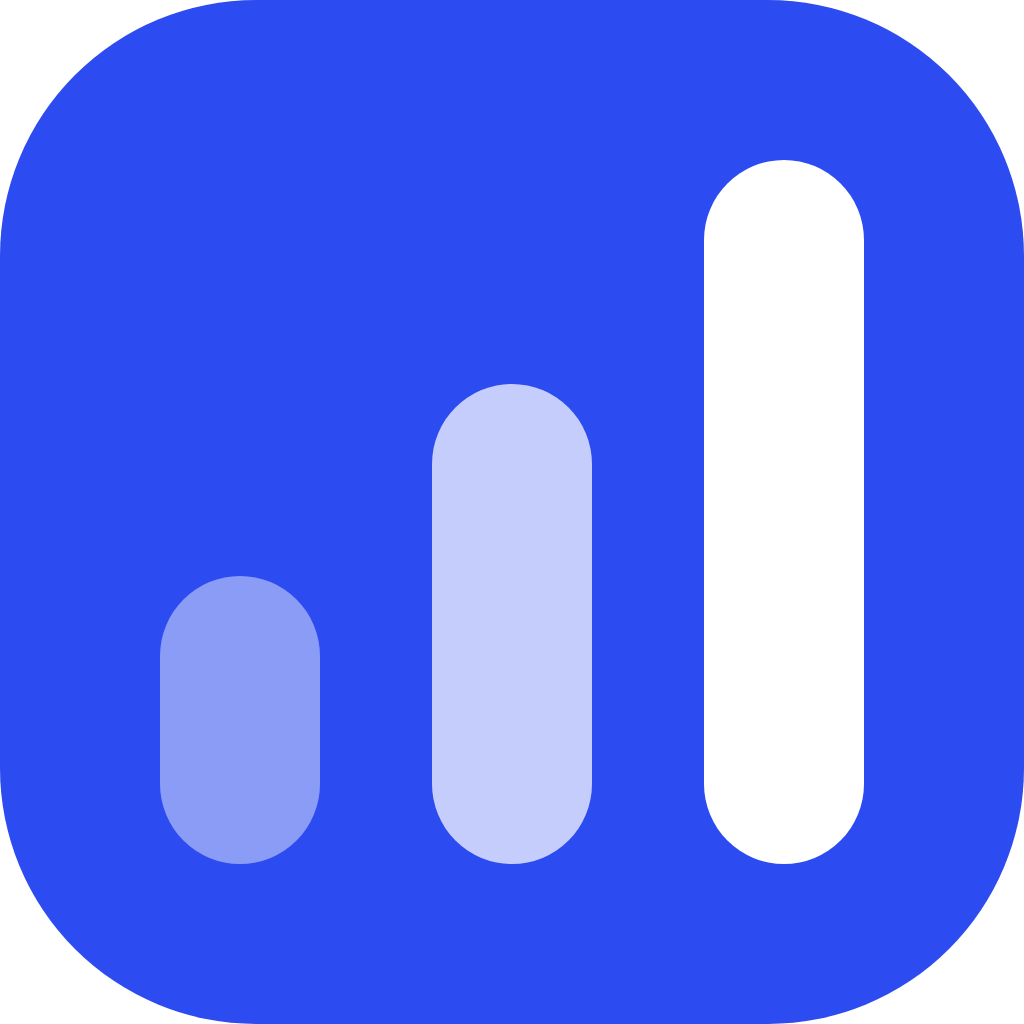
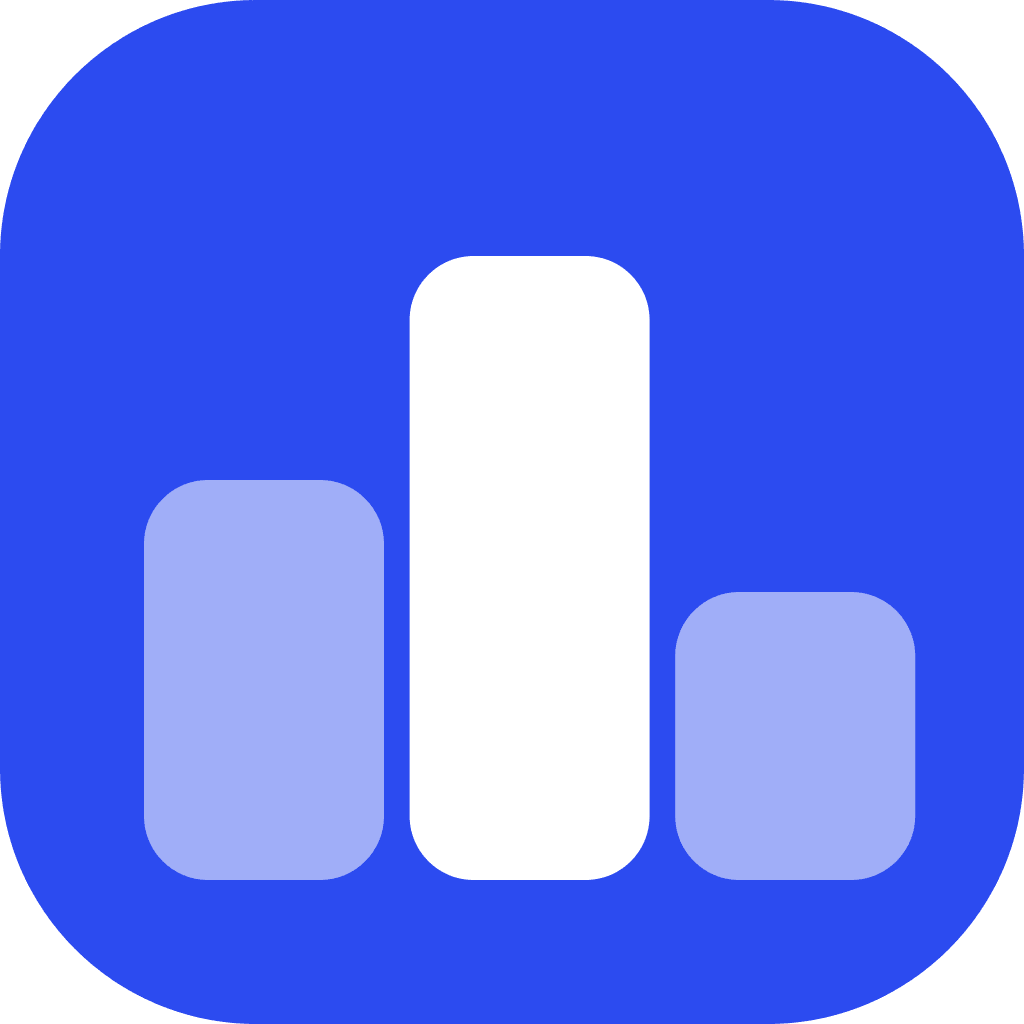
Swap the mark to a podium, generated from one geometry
The old mark was a bar chart, which is the most-used silhouette in
software and says analytics rather than ranking. Worse, the opacity ramp
cost it two of its three bars at favicon size: at 16px it read as a single
white stick, which is where most people meet a mark first.

A podium puts the tallest block in the middle. That is what a podium is
and what a chart never is, the asymmetry is what keeps it identifiable
small, and being centre-weighted it fills a circular avatar instead of
leaving a wedge of empty tile in one corner.

The geometry now lives in one module and every asset is generated from it
by scripts/generate-brand.mjs - favicon, touch icon, social avatars,
wordmark, the bare mark and the rank badge. Last time these drifted apart
by hand; now they cannot.

The wordmark became two files. It used currentColor, which is right inline
and wrong as a file: inside an <img> currentColor resolves to black, so
the dark-background version was invisible.

diff --git a/src/lib/brand.ts b/src/lib/brand.ts
@@ -1,0 +1,71 @@
+/**
+ * The mark, in one place.
+ *
+ * A podium: three blocks with the tallest in the middle, which is what a podium is and
+ * what a bar chart never is. Ascending bars read as analytics, and the two faded ones
+ * disappeared at favicon size - the shape is asymmetric now so it stays identifiable at
+ * 16px, and centre-weighted so a circular avatar crop does not leave a wedge of empty
+ * tile in one corner.
+ *
+ * Every asset is generated from these numbers - the favicon, the header, the badge, the
+ * social avatars - so the picture cannot drift between them.
+ */
+
+/** The tile and the bars are fixed colours in both themes: one picture everywhere. */
+export const LOGO_BG = "#2C4BF0";
+export const LOGO_FG = "#FFFFFF";
+
+/** The dark-tile variant, for a light surface that needs the mark to recede. */
+export const LOGO_BG_DARK = "#12141A";
+export const LOGO_FG_DARK = "#A8BAFF";
+
+/** Podium blocks on a 32-unit grid: [x, y, width, height, opacity]. */
+export const PODIUM: readonly (readonly [number, number, number, number, number])[] = [
+  [4.5, 15, 7.5, 12.5, 0.55],
+  [12.8, 8, 7.5, 19.5, 1],
+  [21.1, 18.5, 7.5, 9, 0.55],
+] as const;
+
+/** Corner radius of a podium block, on the same 32-unit grid. */
+export const PODIUM_RADIUS = 2;
+
+/** The blocks as SVG markup, scaled from the 32-unit grid to any canvas. */
+export function podiumRects(options: {
+  scale?: number;
+  fill?: string;
+  radius?: number;
+} = {}): string {
+  const scale = options.scale ?? 1;
+  const fill = options.fill ?? LOGO_FG;
+  const radius = (options.radius ?? PODIUM_RADIUS) * scale;
+  const n = (value: number) => Number((value * scale).toFixed(3));
+
+  return PODIUM.map(
+    ([x, y, w, h, opacity]) =>
+      `<rect x="${n(x)}" y="${n(y)}" width="${n(w)}" height="${n(h)}" rx="${Number(radius.toFixed(3))}" fill="${fill}"${
+        opacity < 1 ? ` opacity="${opacity}"` : ""
+      }/>`,
+  ).join("");
+}
+
+/** The whole mark: tile plus podium, at any size. */
+export function markSvg(options: {
+  size?: number;
+  bg?: string;
+  fg?: string;
+  /** "tile" for the rounded square, "circle" for a social avatar. */
+  shape?: "tile" | "circle";
+  attrs?: string;
+} = {}): string {
+  const size = options.size ?? 32;
+  const bg = options.bg ?? LOGO_BG;
+  const fg = options.fg ?? LOGO_FG;
+  const scale = size / 32;
+  const radius = options.shape === "circle" ? size / 2 : size * 0.25;
+
+  return `<svg xmlns="http://www.w3.org/2000/svg" width="${size}" height="${size}" viewBox="0 0 ${size} ${size}" fill="none"${
+    options.attrs ? ` ${options.attrs}` : ""
+  }><rect width="${size}" height="${size}" rx="${Number(radius.toFixed(3))}" fill="${bg}"/>${podiumRects(
+    { scale, fill: fg },
+  )}</svg>`;
+}

diff --git a/src/components/Logo.tsx b/src/components/Logo.tsx
@@ -1,15 +1,17 @@
+import { LOGO_BG, LOGO_FG, PODIUM, PODIUM_RADIUS } from "@/lib/brand";
+
 type Props = { size?: number; className?: string };
 
-/**
- * Three ascending bars: a leaderboard, with the tallest one paid for.
- *
- * The mark is a fixed brand object - always indigo behind white bars, in both themes and in
- * every exported asset in public/brand. It deliberately does NOT follow the theme tokens, so
- * the favicon, the header and a social avatar are all the same picture.
- */
-export const LOGO_BG = "#2C4BF0";
-export const LOGO_FG = "#FFFFFF";
+export { LOGO_BG, LOGO_FG };
 
+/**
+ * A podium: three blocks, tallest in the middle.
+ *
+ * The mark is a fixed brand object - always indigo behind white blocks, in both themes and
+ * in every exported asset in public/brand. It deliberately does NOT follow the theme
+ * tokens, so the favicon, the header and a social avatar are all the same picture. The
+ * geometry lives in lib/brand so nothing here can drift from what is generated.
+ */
 export function Logo({ size = 28, className = "" }: Props) {
   return (
     <span
@@ -17,10 +19,19 @@ export function Logo({ size = 28, className = "" }: Props) {
       className={`grid shrink-0 place-items-center rounded-[8px] ${className}`}
       style={{ width: size, height: size, background: LOGO_BG }}
     >
-      <svg width={size * 0.68} height={size * 0.68} viewBox="0 0 32 32" fill="none">
-        <rect x="5" y="18" width="5" height="9" rx="2.5" fill={LOGO_FG} opacity="0.45" />
-        <rect x="13.5" y="12" width="5" height="15" rx="2.5" fill={LOGO_FG} opacity="0.72" />
-        <rect x="22" y="5" width="5" height="22" rx="2.5" fill={LOGO_FG} />
+      <svg width={size * 0.72} height={size * 0.72} viewBox="0 0 32 32" fill="none">
+        {PODIUM.map(([x, y, w, h, opacity]) => (
+          <rect
+            key={x}
+            x={x}
+            y={y}
+            width={w}
+            height={h}
+            rx={PODIUM_RADIUS}
+            fill={LOGO_FG}
+            opacity={opacity}
+          />
+        ))}
       </svg>
     </span>
   );

diff --git a/src/app/badge/[slug]/route.ts b/src/app/badge/[slug]/route.ts
@@ -1,3 +1,4 @@
+import { podiumRects } from "@/lib/brand";
 import { categoryLabel } from "@/lib/categories";
 import { computeRanks, getListingBySlug } from "@/lib/domain/listings";
 
@@ -60,10 +61,8 @@ function svg(rank: string | null, category: string | null, theme: keyof typeof T
   return `<svg xmlns="http://www.w3.org/2000/svg" width="${width}" height="${H}" viewBox="0 0 ${width} ${H}" role="img" aria-label="${escapeXml(label)}">
   <title>${escapeXml(label)}</title>
   <rect x="0.5" y="0.5" width="${width - 1}" height="${H - 1}" rx="${H / 2}" fill="${t.bg}" stroke="${t.border}"/>
-  <g fill="${t.accent}">
-    <rect x="${barsX}" y="21" width="3.5" height="7" rx="1.4"/>
-    <rect x="${barsX + 5.5}" y="16" width="3.5" height="12" rx="1.4"/>
-    <rect x="${barsX + 11}" y="12" width="3.5" height="16" rx="1.4"/>
+  <g fill="${t.accent}" transform="translate(${barsX - 2.1} 9.5) scale(0.594)">
+    ${podiumRects({ fill: t.accent })}
   </g>
   <text x="${wordX}" y="${H / 2 + 4.5}" font-family="system-ui,-apple-system,Segoe UI,Roboto,sans-serif" font-size="13.5" font-weight="700" fill="${t.ink}">${escapeXml(wordmark)}</text>
   ${rank ? `<line x1="${divX}" y1="11" x2="${divX}" y2="${H - 11}" stroke="${t.border}" stroke-width="1"/>
